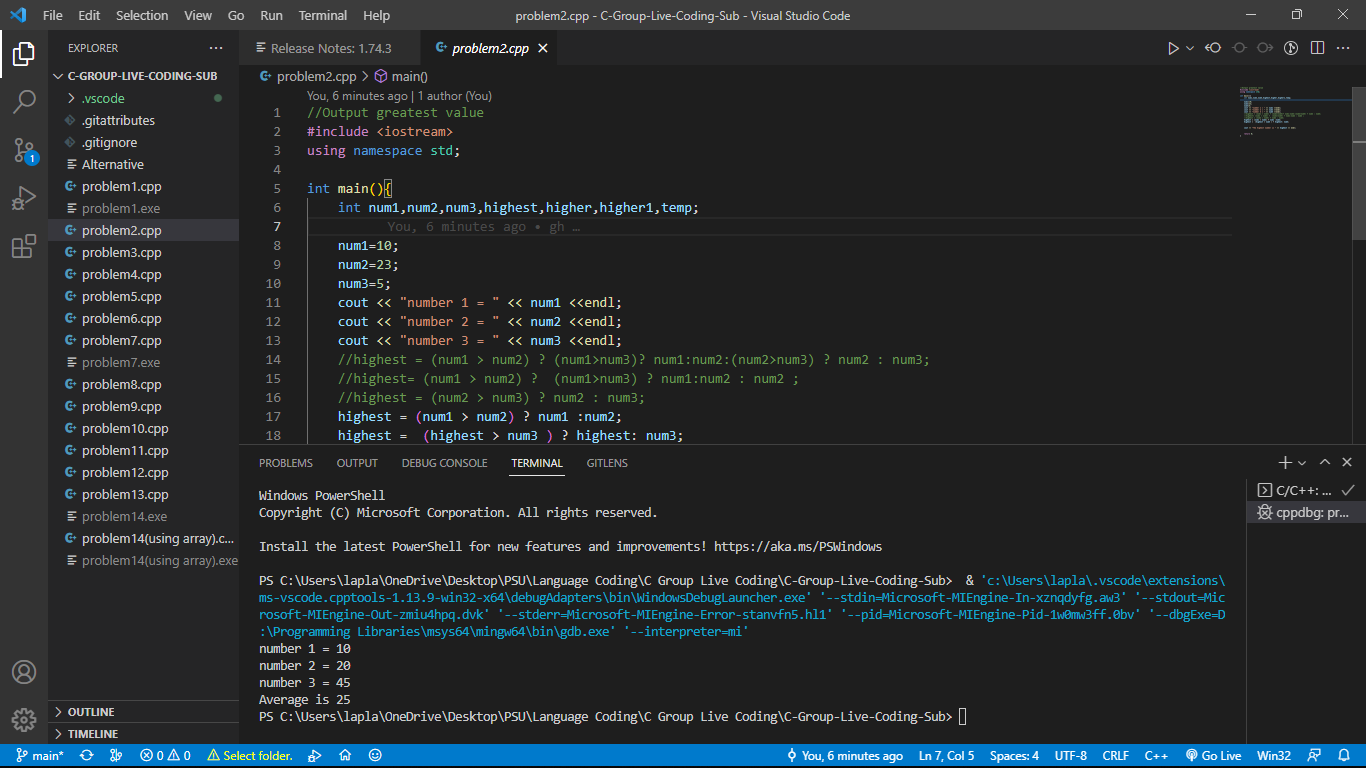
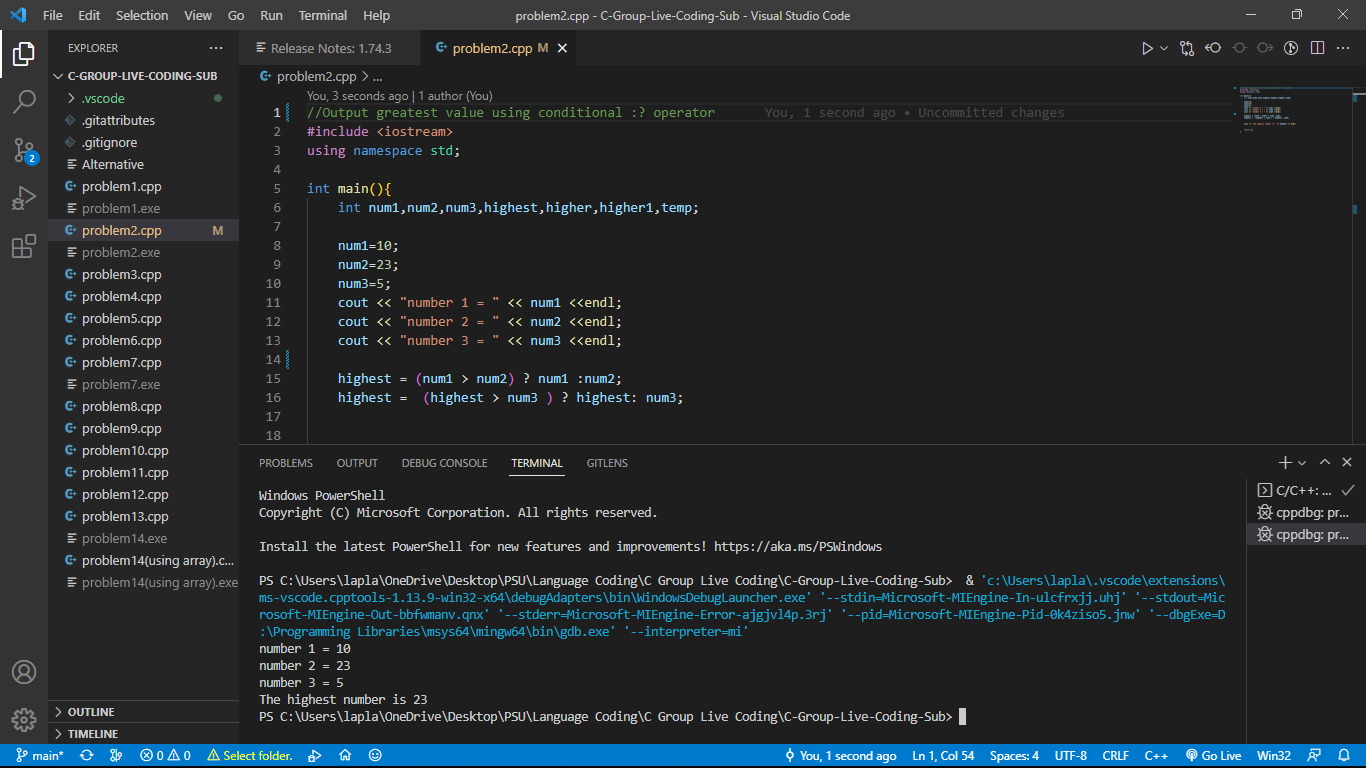
problem 17

diff --git a/problem 17.cpp b/problem 17.cpp
@@ -1,0 +1,37 @@
+#include <iostream>
+using namespace std;
+
+int main(){
+    string userin,displayname;
+    string names[20];
+    string phonenum[20];
+    int count=0;
+    
+   while (count < 20 ){
+        
+        cout << "Enter a name (Enter \"zzz\" to quit):";
+        cin >> names[count];
+
+        if(names[count] == "zzz"){
+            break;
+        }
+
+        cout << "Enter phone number:";
+        cin >> phonenum[count]; 
+
+    count++;    
+    }
+    cout << "\nYou entered " << count << " names.\n";
+
+    cout << "Names:";
+    for(int i=0; count > i; i++){
+        cout << names[i] << ", ";
+    }
+    cout << "\n\nEnter name to display the corresponding phone number:";
+    cin >> displayname;
+    for (int i=0; count > i; i++){
+        if(displayname == names[i]){
+            cout << "Phone number:" << phonenum[i];
+        }
+    }
+}
